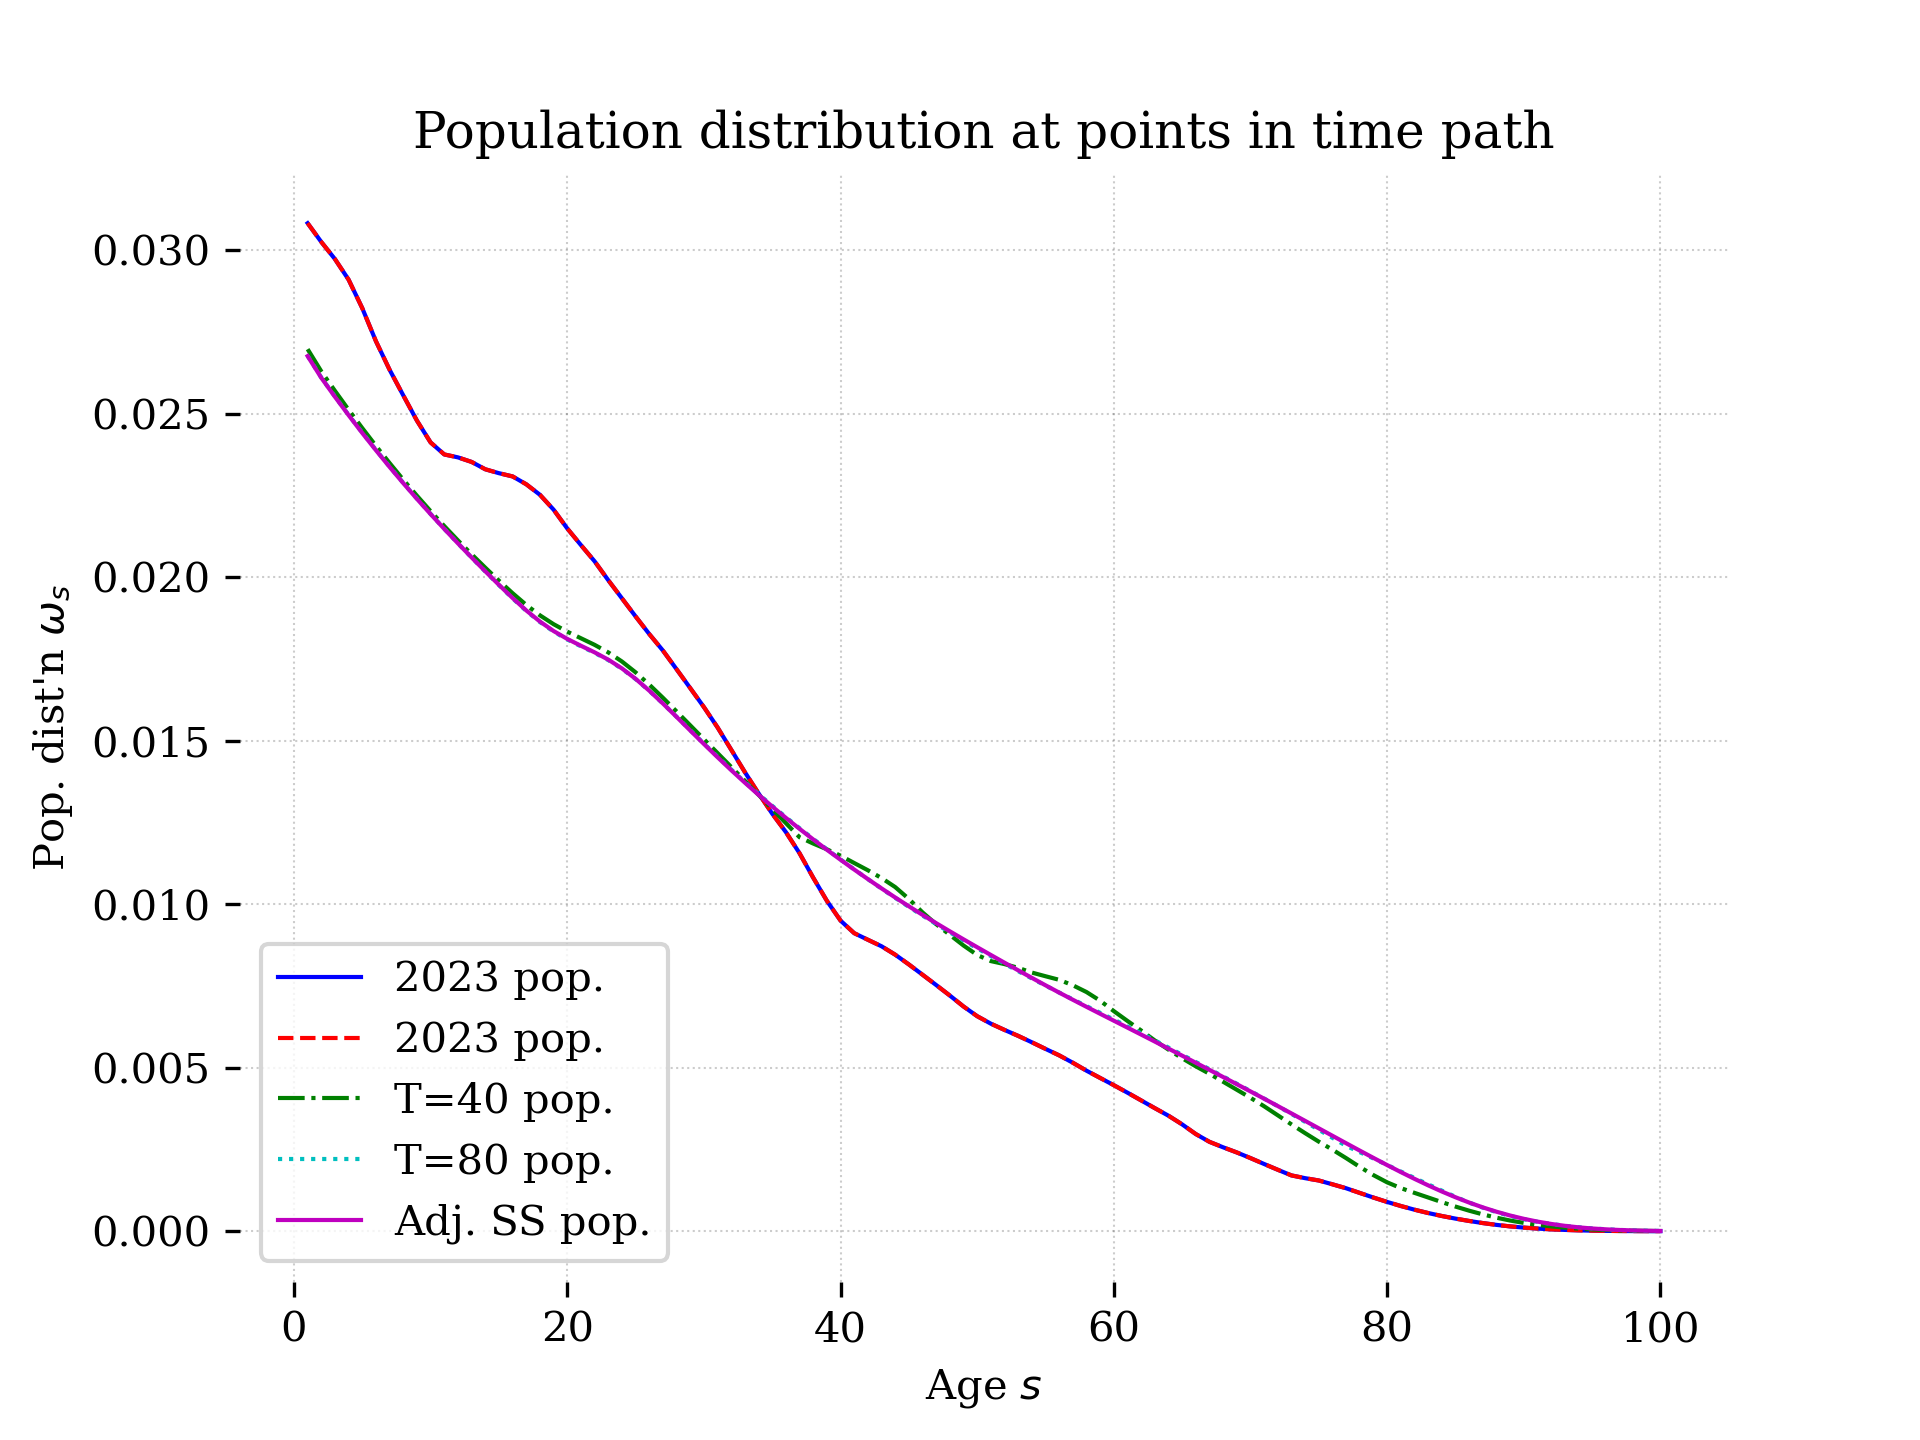
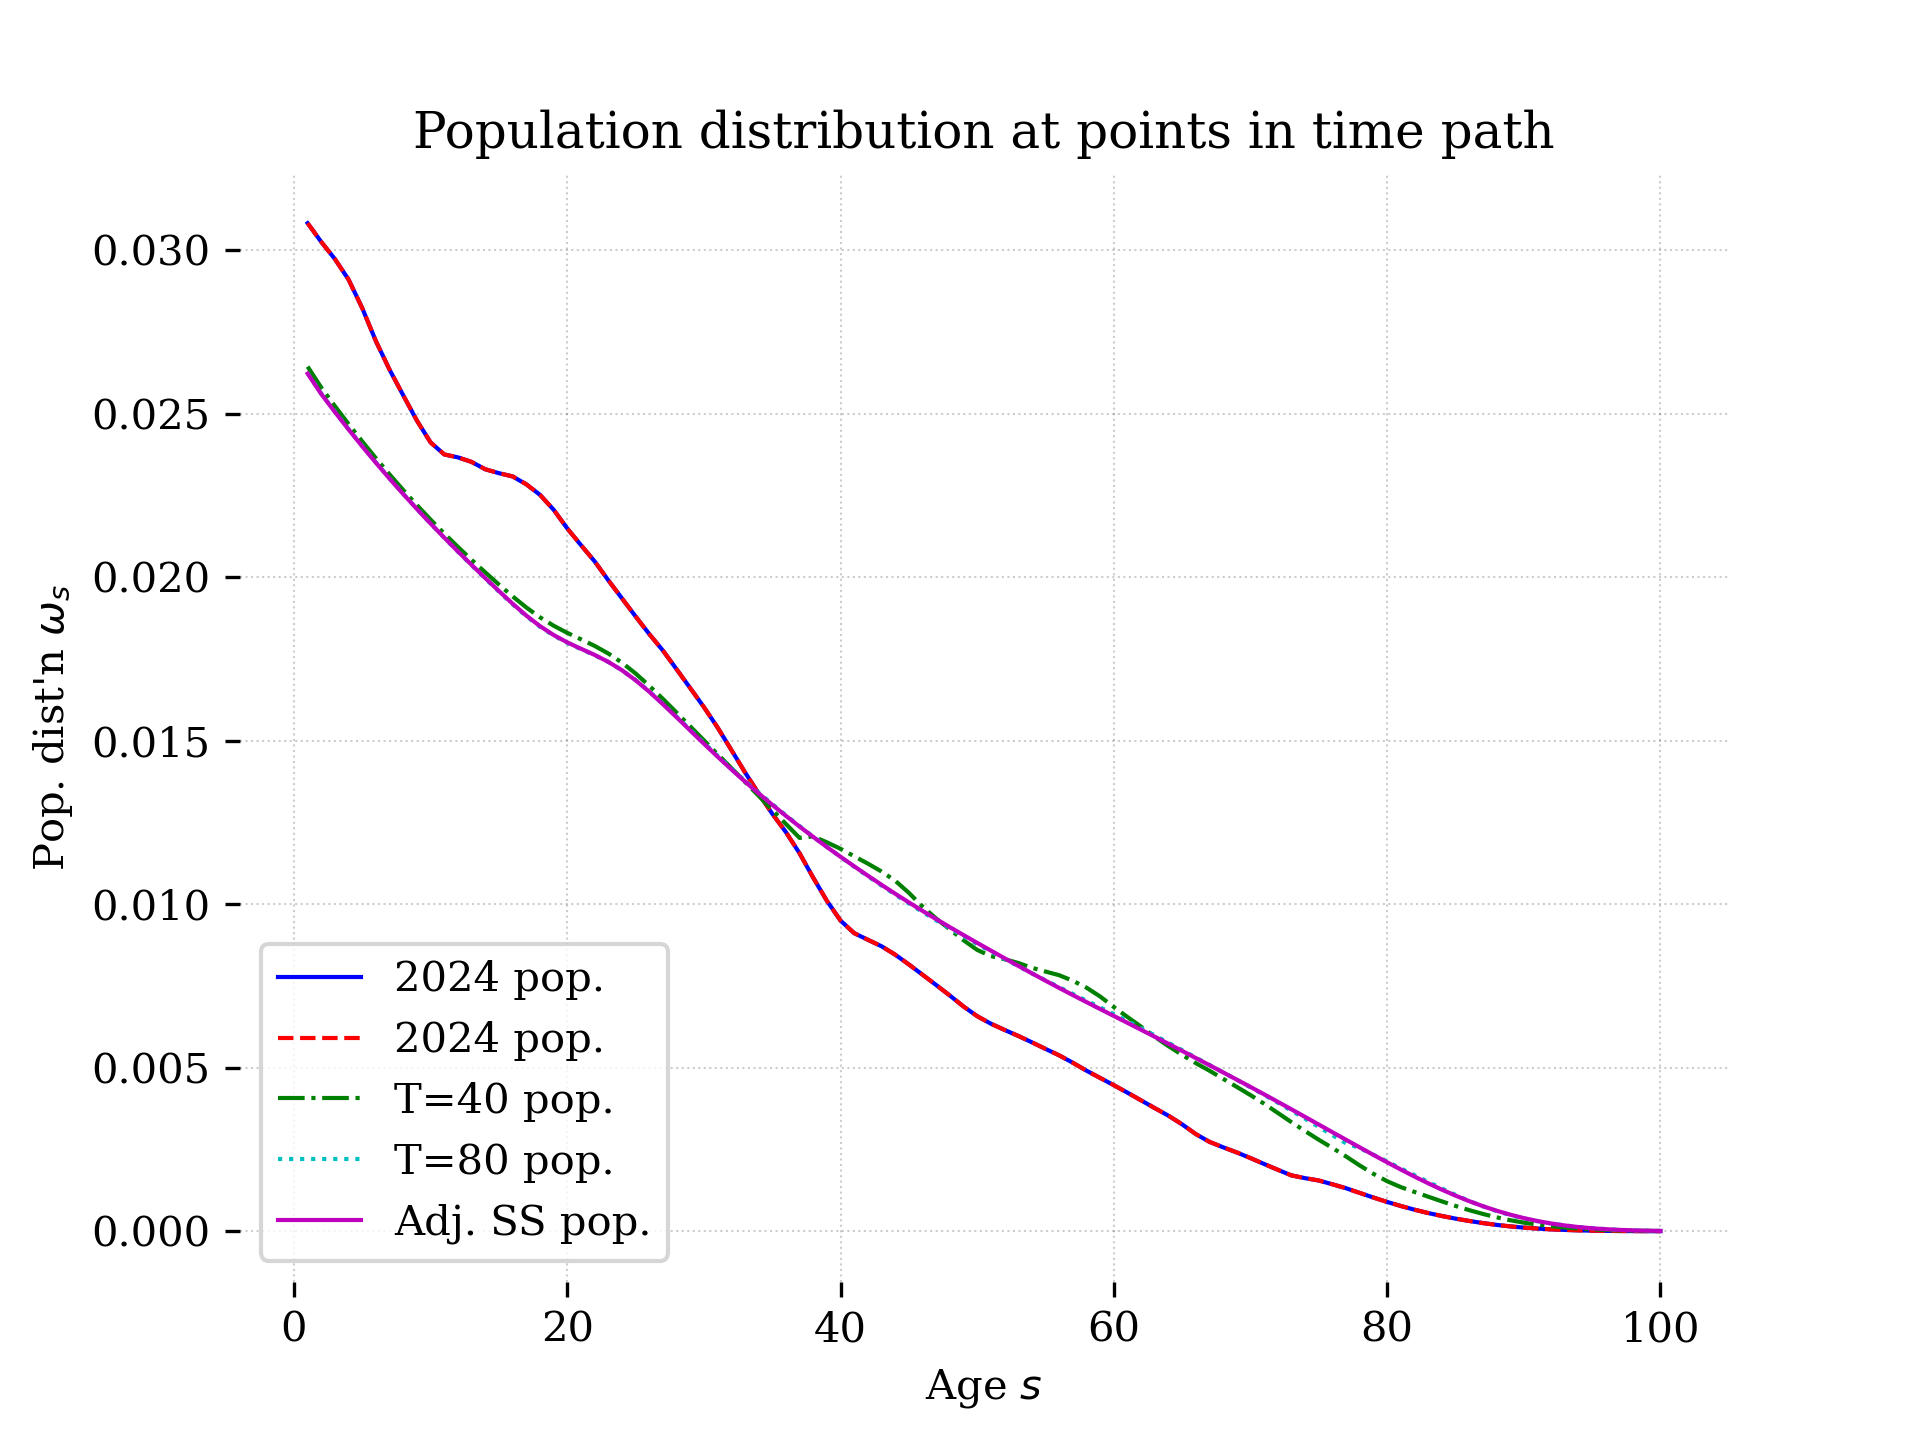
update doc images

diff --git a/docs/create_doc_figures.py b/docs/create_doc_figures.py
@@ -15,7 +15,7 @@ from ogcore import demographics as demog
 CUR_DIR = os.path.dirname(os.path.realpath(__file__))
 UN_COUNTRY_CODE = "231"
 plot_path = os.path.join(CUR_DIR, "book", "content", "calibration", "images")
-YEAR_TO_PLOT = 2024
+YEAR_TO_PLOT = 2025
 # update path for demographics graphdiag plots
 demog.OUTPUT_DIR = plot_path
 
